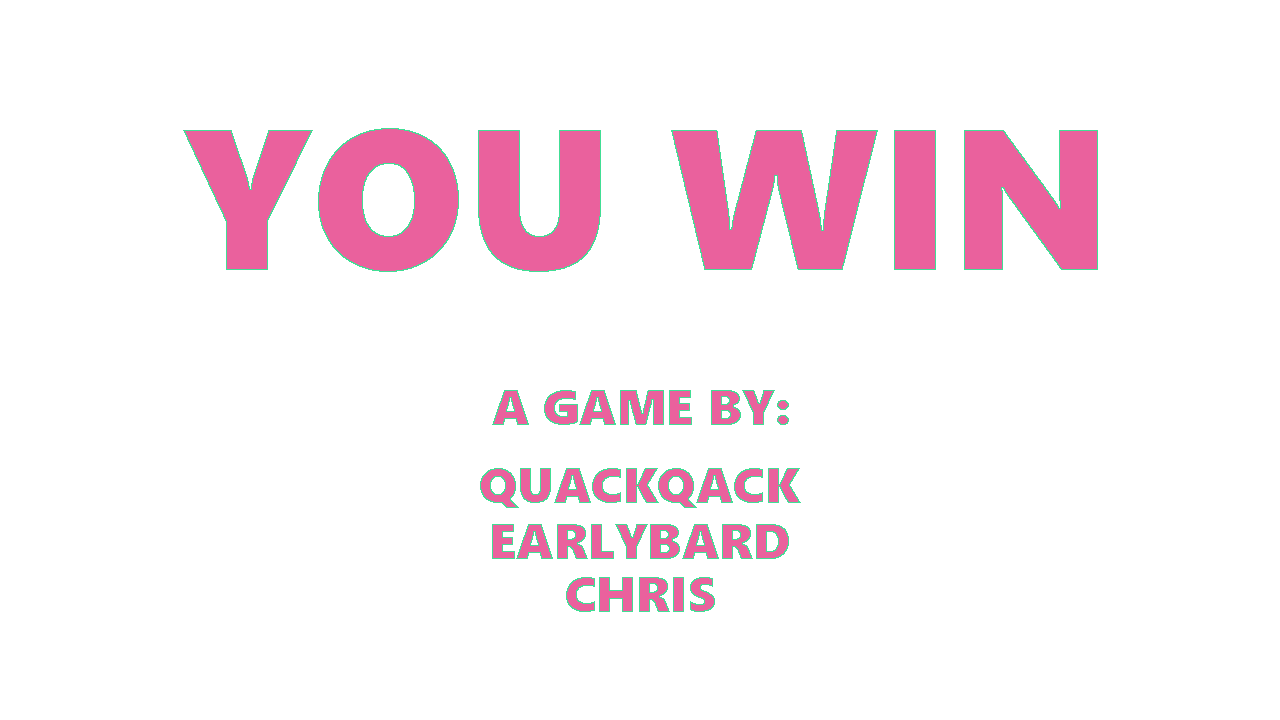
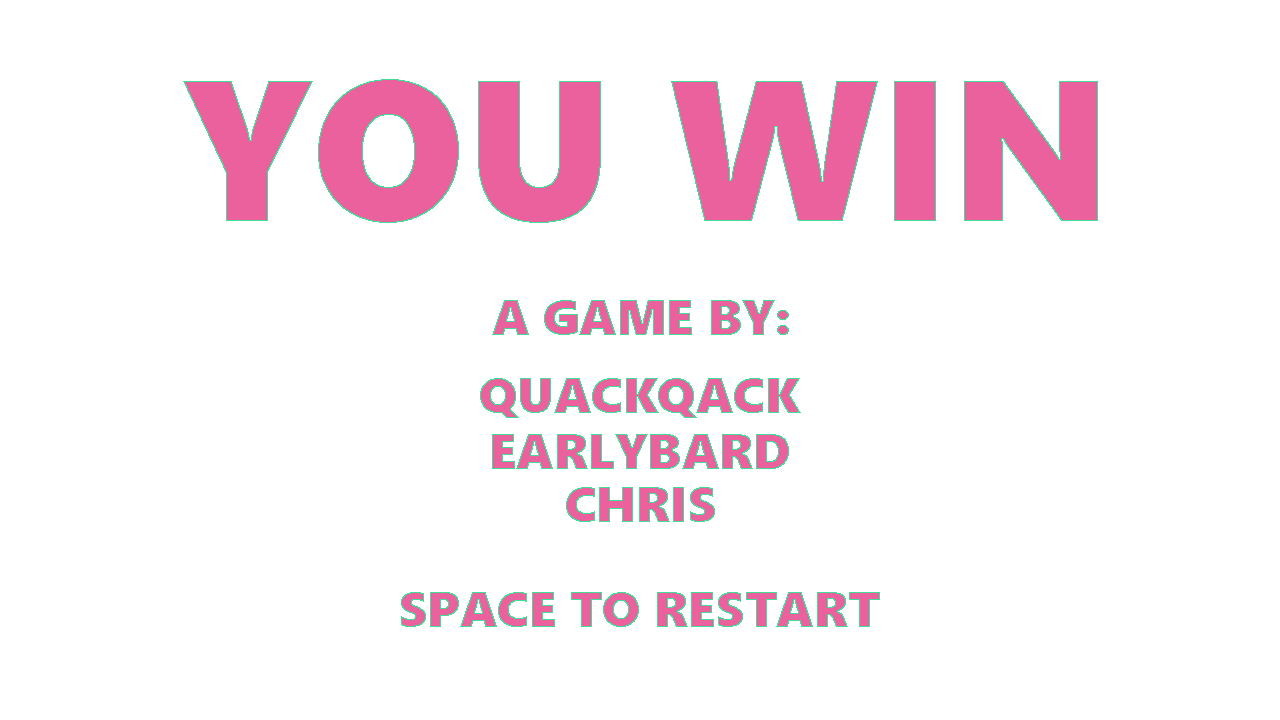
Win

diff --git a/src/examples/LD45/Systems/GameDirector.ts b/src/examples/LD45/Systems/GameDirector.ts
@@ -4,10 +4,13 @@ import {System} from "../../../ECS/System";
 import {Enemy, EnemyTag} from "../Entities/Enemy";
 import {Log, MathUtil} from "../../../Common/Util";
 import {HexRegister} from "../HexEntity";
+import {YouWin} from "../Entities/YouWin";
 
 export class GameDirector extends Entity
 {
     private counter!: EnemyCounter;
+    private overThreshold = false;
+    private win = false;
 
     constructor()
     {
@@ -24,8 +27,16 @@ export class GameDirector extends Entity
 
     private trigger()
     {
+        if (this.counter.count === 0 && this.overThreshold && !this.win)
+        {
+            const player = this.getScene().getEntityWithName("player");
+            this.getScene().addEntity(new YouWin(player!.transform.x, player!.transform.y));
+            this.win = true;
+        }
+
         // Do we need a new enemy?
-        if (this.counter.count === 0 || (this.counter.count < 3 && MathUtil.randomRange(0, 5) < 2))
+        if ((this.counter.count === 0 || (this.counter.count < 3 && MathUtil.randomRange(0, 5) < 2))
+            && !this.overThreshold)
         {
             const player = this.getScene().getEntityWithName("player");
             if (!player) return;
@@ -34,13 +45,19 @@ export class GameDirector extends Entity
 
             const currValue = reg.computeValue();
 
+            // Once the player hits 50, don't spawn any more enemies.
+            if (currValue > 20)
+            {
+                this.overThreshold = true;
+            }
+
             const enemyDist = MathUtil.randomRange(400, 1200);
             const enemyDir = MathUtil.degToRad(MathUtil.randomRange(0, 360));
             const enemyX = MathUtil.lengthDirX(enemyDist, enemyDir);
             const enemyY = MathUtil.lengthDirY(enemyDist, enemyDir);
 
             Log.info("Spawning enemy at ", enemyX, enemyY);
-            this.getScene().addEntity(new Enemy(currValue + 4,
+            this.getScene().addEntity(new Enemy(currValue,
                                                 player.transform.x + enemyX,
                                                 player.transform.y + enemyY));
         }

diff --git a/src/examples/LD45/Entities/YouWin.ts b/src/examples/LD45/Entities/YouWin.ts
@@ -1,0 +1,37 @@
+import {Entity} from "../../../ECS/Entity";
+import {Sprite} from "../../../Common/Sprite/Sprite";
+import winSpr from "../art/end.png";
+import {SpriteSheet} from "../../../Common/Sprite/SpriteSheet";
+import {DrawLayer, HexMainScene} from "../HexGame";
+import {Key} from "../../../Input/Key";
+import {Game} from "../../../ECS/Game";
+const winSheet = new SpriteSheet(winSpr, 1280, 720);
+
+export class YouWin extends Entity
+{
+    constructor(x: number, y: number)
+    {
+        super("gameOver", x - 660, y - 340, DrawLayer.GUI);
+    }
+
+    private sprite!: Sprite;
+
+    onAdded()
+    {
+        super.onAdded();
+
+        this.sprite = this.addComponent(new Sprite(winSheet.texture(0, 0), {alpha: 0}));
+    }
+
+    update(delta: number): void
+    {
+        super.update(delta);
+
+        this.sprite.pixiObj.alpha += 0.0001 * delta;
+
+        if (Game.keyboard.isKeyDown(Key.Space))
+        {
+            this.getScene().getGame().setScene(new HexMainScene())
+        }
+    }
+}

diff --git a/src/examples/LD45/Entities/Thruster.ts b/src/examples/LD45/Entities/Thruster.ts
@@ -23,7 +23,7 @@ export class ThrusterHex extends HexEntity
 {
     constructor(public owner: HexRegister, public hex: Hex)
     {
-        super("thruster", owner, hex, 2);
+        super("thruster", owner, hex, 1);
     }
 
     onAdded()
